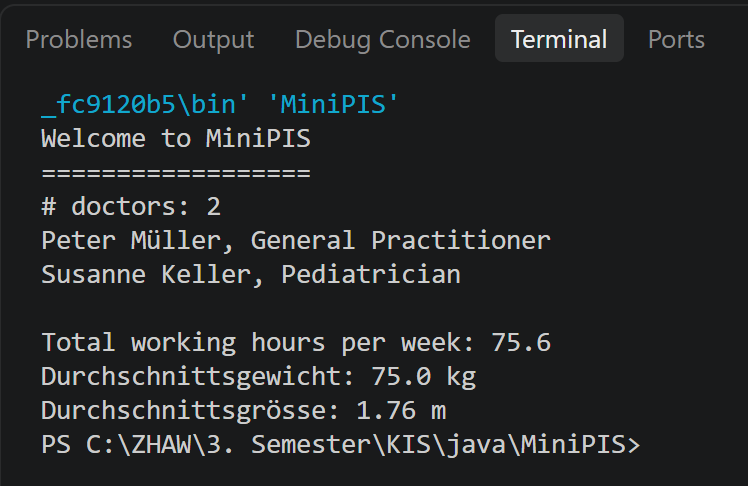
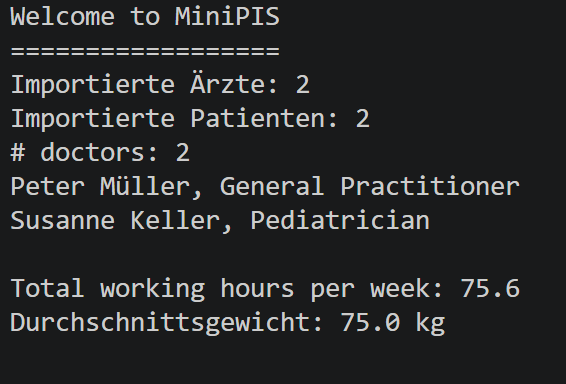
JSON.Java inkl. Tests

diff --git a/JSON.java b/JSON.java
@@ -1,0 +1,156 @@
+
+import java.io.File;
+import java.io.FileWriter;
+import java.io.IOException;
+import java.nio.file.Files;
+import java.nio.file.Path;
+import java.time.LocalDate;
+import java.util.ArrayList;
+
+import org.json.JSONArray;
+import org.json.JSONObject;
+
+public class JSON {
+
+    // Ärzte exportieren
+    static void export(ArrayList<Doctor> doctors, String toFileName) {
+        File jsonOutputFile = new File(toFileName);
+
+        try (FileWriter fileWriter = new FileWriter(jsonOutputFile)) {
+            JSONArray array = new JSONArray();
+
+            for (Doctor doc : doctors) {
+                JSONObject jsonObject = new JSONObject();
+
+                jsonObject.put("prename", doc.getFirstName());
+                jsonObject.put("surname", doc.getLastName());
+                jsonObject.put("speciality", doc.getSpeciality().label);
+                jsonObject.put("employment", doc.getEmployment());
+                jsonObject.put("email", doc.getEmail());
+
+                array.put(jsonObject);
+            }
+
+            fileWriter.write(array.toString(4));
+
+        } catch (IOException e) {
+            e.printStackTrace();
+        }
+    }
+
+    // Ärzte importieren
+    static ArrayList<Doctor> importDoctors(String fromFileName) {
+        ArrayList<Doctor> result = new ArrayList<Doctor>();
+        Path filePath = Path.of(fromFileName);
+
+        try {
+            String content = Files.readString(filePath);
+            JSONArray array = new JSONArray(content);
+
+            for (int i = 0; i < array.length(); i++) {
+                JSONObject obj = array.getJSONObject(i);
+
+                Doctor doctor = new Doctor(
+                    obj.getString("prename"),
+                    obj.getString("surname")
+                );
+
+                doctor.setEmployment(obj.getInt("employment"));
+
+                String spec = obj.getString("speciality");
+
+                for (Speciality s : Speciality.values()) {
+                    if (spec.equals(s.label)) {
+                        doctor.setSpeciality(s);
+                    }
+                }
+
+                String email = obj.optString("email", "");
+
+                if (!email.isEmpty()) {
+                    doctor.setEmail(email);
+                }
+
+                result.add(doctor);
+            }
+
+        } catch (IOException e) {
+            e.printStackTrace();
+        }
+
+        return result;
+    }
+
+    // Patienten exportieren
+    static void exportPatients(ArrayList<Patient> patients, String fileName) {
+        File jsonOutputFile = new File(fileName);
+
+        try (FileWriter fileWriter = new FileWriter(jsonOutputFile)) {
+            JSONArray array = new JSONArray();
+
+            for (Patient patient : patients) {
+                JSONObject jsonObject = new JSONObject();
+
+                jsonObject.put("firstName", patient.getFirstName());
+                jsonObject.put("lastName", patient.getLastName());
+                jsonObject.put("height", patient.getHeight());
+                jsonObject.put("weight", patient.getWeight());
+                jsonObject.put("birthday", patient.getBirthday() == null
+                    ? JSONObject.NULL
+                    : patient.getBirthday().toString());
+                jsonObject.put("sex", patient.getSex() == null
+                    ? JSONObject.NULL
+                    : patient.getSex().name());
+
+                array.put(jsonObject);
+            }
+
+            fileWriter.write(array.toString(4));
+
+        } catch (IOException e) {
+            e.printStackTrace();
+        }
+    }
+
+    // Patienten importieren
+    static ArrayList<Patient> importPatients(String fileName) {
+        ArrayList<Patient> result = new ArrayList<Patient>();
+        Path filePath = Path.of(fileName);
+
+        try {
+            String content = Files.readString(filePath);
+            JSONArray array = new JSONArray(content);
+
+            for (int i = 0; i < array.length(); i++) {
+                JSONObject obj = array.getJSONObject(i);
+
+                Patient patient = new Patient(
+                    obj.getString("firstName"),
+                    obj.getString("lastName")
+                );
+
+                patient.setHeight(obj.getFloat("height"));
+                patient.setWeight(obj.getFloat("weight"));
+
+                if (!obj.isNull("birthday")) {
+                    patient.setBirthday(
+                        LocalDate.parse(obj.getString("birthday"))
+                    );
+                }
+
+                if (!obj.isNull("sex")) {
+                    patient.setSex(
+                        Patient.Sex.valueOf(obj.getString("sex"))
+                    );
+                }
+
+                result.add(patient);
+            }
+
+        } catch (IOException e) {
+            e.printStackTrace();
+        }
+
+        return result;
+    }
+}

diff --git a/MiniPIS.java b/MiniPIS.java
@@ -53,6 +53,15 @@ class MiniPIS {
     private static void processData() {
         CSV.exportDoctors(doctors);
         CSV.exportPatients(patients);
+
+        JSON.export(doctors, "doctors.json");
+        JSON.exportPatients(patients, "patients.json");
+
+        ArrayList<Doctor> importedDoctors = JSON.importDoctors("doctors.json");
+        ArrayList<Patient> importedPatients = JSON.importPatients("patients.json");
+
+        System.out.println("Importierte Ärzte: " + importedDoctors.size());
+        System.out.println("Importierte Patienten: " + importedPatients.size());
     }
 
     private static void analyseData() {

diff --git a/README.md b/README.md
@@ -1,74 +1,99 @@
+# MiniPIS
+
+A playground for developing a simple Patient Information System (PIS), sometimes also called a Practice Information System.
+
 ## My Implementation
 
 I extended the MiniPIS project with the following features:
 
-- **Doctor:** Added employment validation and email address with Regex validation.
+- **Doctor:** Added employment validation and an email address with Regex validation.
 - **Patient:** Created a new class with height, weight, birth date, calculated age and sex.
 - **Person:** Created a superclass for Doctor and Patient to reuse common attributes and methods.
 - **Appointment:** Created a class for appointments between doctors and patients.
 - **Data Analysis:** Calculated the average weight and height of patients.
 - **CSV Export:** Exported doctor and patient data into separate CSV files.
+- **JSON Export:** Added functionality to export doctors and patients into JSON files.
+- **JSON Import:** Added functionality to import doctors and patients from JSON files.
 - **Demo Data:** Created sample doctors, patients and appointments.
 
 ## How to Run
 
-Run `MiniPIS.java` to start the application.
+Open the MiniPIS project in Visual Studio Code and run `MiniPIS.java`.
 
-The program creates sample data, calculates statistics and exports two CSV files:
+The JSON functionality requires the `org.json` library, which is included as a JAR file in the `lib` folder.
 
+The program creates sample data, calculates statistics and exports the following files:
+
+**CSV files:**
 - `doctors.csv`
 - `patients.csv`
 
+**JSON files:**
+- `doctors.json`
+- `patients.json`
+
+The program also imports the JSON files and displays the number of imported doctors and patients.
+
 ## Example Output
+
+The following screenshot shows the program output in the terminal.
+
 ![MiniPIS Terminal Output](Result.png)
 
+---
 
-# Project MiniPIS
-A playground for developing a simple Patient Information System (PIS), sometimes also called "Practice Information System".
-
-MiniPIS is very simplistic:
-- it is not a template for a real PIS implementation, but intended for learning OOP with Java
-- it has no user interface, only programmatically create and test your PIS model 
-- it provides no persistancy, data is only accessible during run-time (no database storage)
+# Original MiniPIS Project Description
 
 ## MiniPIS Template
 
 MiniPIS contains a starting template that covers a Patient Information System (PIS) for a group practice.
-It handles the doctors that are working at the practice.
+
+MiniPIS is very simplistic:
+
+- It is not a template for a real PIS implementation, but intended for learning OOP with Java.
+- It has no user interface, only programmatically created and tested data.
+- It provides no built-in database persistence.
+
+The template handles the doctors working at the practice.
+
 The project contains a Java class for representing a Doctor.
-There are methods to create data, process data, and to analyse data.
-Study the template and then start to add new functionality according to the following requirements listed as tasks.
+
+There are methods to create data, process data, and analyse data.
+
+Study the template and then start to add new functionality according to the following requirements.
 
 ## New Requirements
 
-Implement new funtionalities according to the listed requirements. The requirements are mainly some keywords, it is up to you to interpret and make sense out of it. Develop new classes, create sample objects, process them, and analyse the results. 
+Implement new functionalities according to the listed requirements. The requirements are mainly keywords; it is up to you to interpret and make sense of them. Develop new classes, create sample objects, process them, and analyse the results.
 
 ### Clarified Requirements and Tasks
+
 - Doctor: add missing setter for employmentLevel
 - Doctor: validate employmentLevel in setter method
 - Doctor: add email address
 - (Optional) Doctor: validate email in setter method
   - Hint: use regular expression for validation
 - Add Patient to MiniPIS project
-  - develop a new class
-  - create demo data
+  - Develop a new class
+  - Create demo data
 - Patient: add weight and height
 - Patient: add birth date and age
   - Hint: what could be an attribute, what a method?
-  - Hint: check LocalDate in Documentation (https://docs.oracle.com/en/java/javase/24/docs/api/index.html)
+  - Hint: check LocalDate in Java Documentation
 - Patient: add sex
 - Refactor Doctor and Patient classes
-  - Hint: reuse common fields and methods in a super class
+  - Hint: reuse common fields and methods in a superclass
 - Calculate average weight and height of patients
 - Add Appointment to MiniPIS project
-  - develop a new class
-  - create demo data
-- Export Patients and Doctors as CSV file (take the TSV file exporting Doctors as a starting point and adapt it to CSV)
+  - Develop a new class
+  - Create demo data
+- Export Patients and Doctors as CSV files (take the TSV file exporting Doctors as a starting point and adapt it to CSV)
 - Optional: write JUnit test case(s)
 
-
 ### Unclear Requirements
+
 Many missing concepts have been named by potential users of MiniPIS, but are not prioritized:
+
 - Lab Test
 - Assistant
 - Diagnosis
@@ -79,5 +104,5 @@ Many missing concepts have been named by potential users of MiniPIS, but are not
 - Nurse
 - Bill
 - ...
-  
-Prioritize, design and further develop MiniPIS according to your judgement of feature & function relevance.
+
+Prioritize, design and further develop MiniPIS according to your judgement of feature and function relevance.
